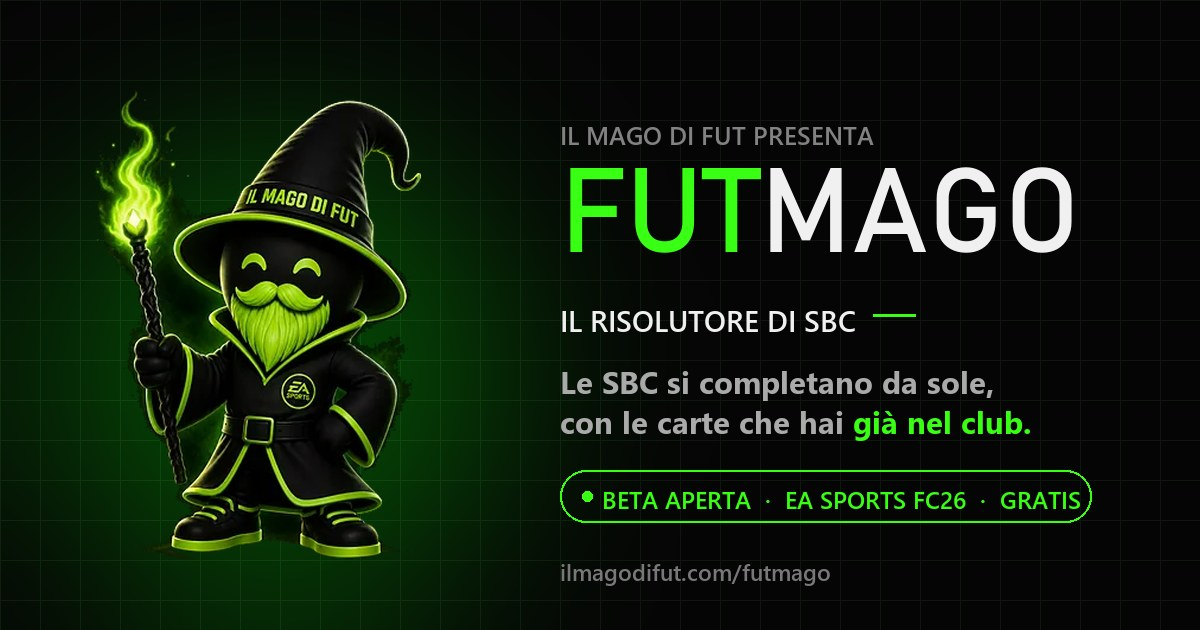
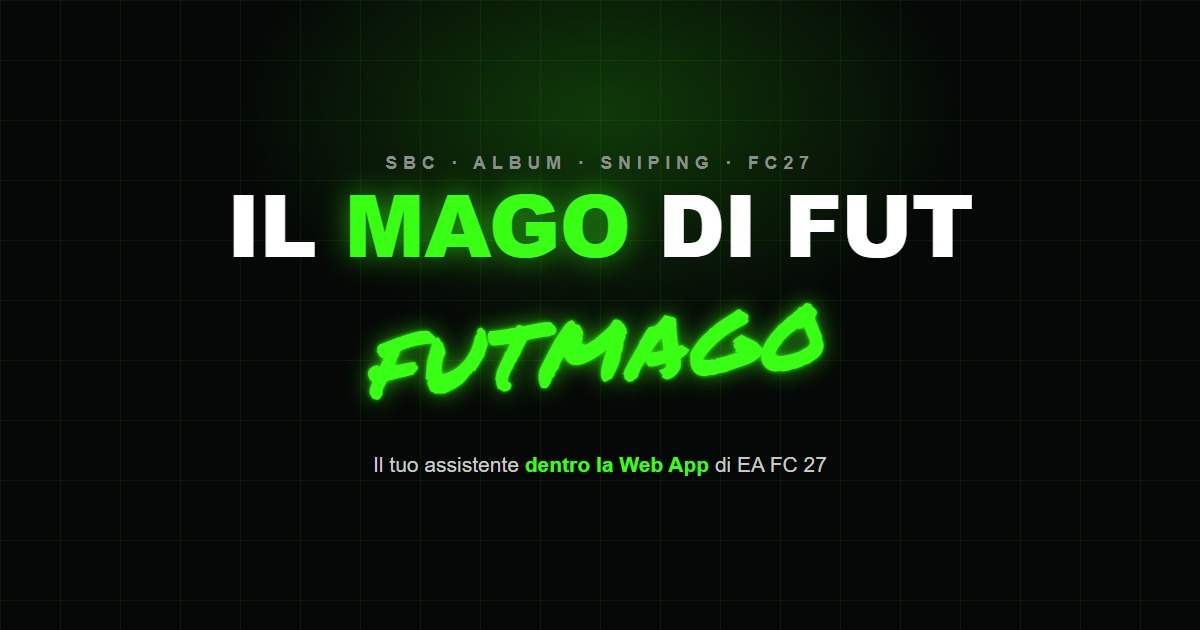
Anteprima del link /futmago come quella della homepage, con FUTMAGO

diff --git a/futmago.html b/futmago.html
@@ -23,10 +23,17 @@
 
 <meta property="og:type" content="website">
 <meta property="og:url" content="https://ilmagodifut.com/futmago">
-<meta property="og:title" content="FUTMAGO — il mago della Web App di FC 27">
-<meta property="og:description" content="SBC, Album, SNIPE e AUTOMAGO dentro la Web App di FC 27. Computer, iPhone e Android.">
+<meta property="og:title" content="FUTMAGO | Il Mago di FUT">
+<meta property="og:description" content="SBC automatizzate, Album della Gallery e sniping del mercato, direttamente nella Web App di EA FC 27. Su computer, iPhone e Android.">
 <meta property="og:locale" content="it_IT">
-<meta property="og:site_name" content="Il Mago di FUT ELITE">
+<meta property="og:image" content="https://ilmagodifut.com/assets/images/og-futmago.jpg?v=fc27">
+<meta property="og:image:width" content="1200">
+<meta property="og:image:height" content="630">
+<meta name="twitter:card" content="summary_large_image">
+<meta name="twitter:title" content="FUTMAGO | Il Mago di FUT">
+<meta name="twitter:description" content="SBC automatizzate, Album della Gallery e sniping del mercato, direttamente nella Web App di EA FC 27. Su computer, iPhone e Android.">
+<meta name="twitter:image" content="https://ilmagodifut.com/assets/images/og-futmago.jpg?v=fc27">
+<meta property="og:site_name" content="Il Mago di FUT">
 
 <link rel="preconnect" href="https://fonts.googleapis.com">
 <link rel="preconnect" href="https://fonts.gstatic.com" crossorigin>
